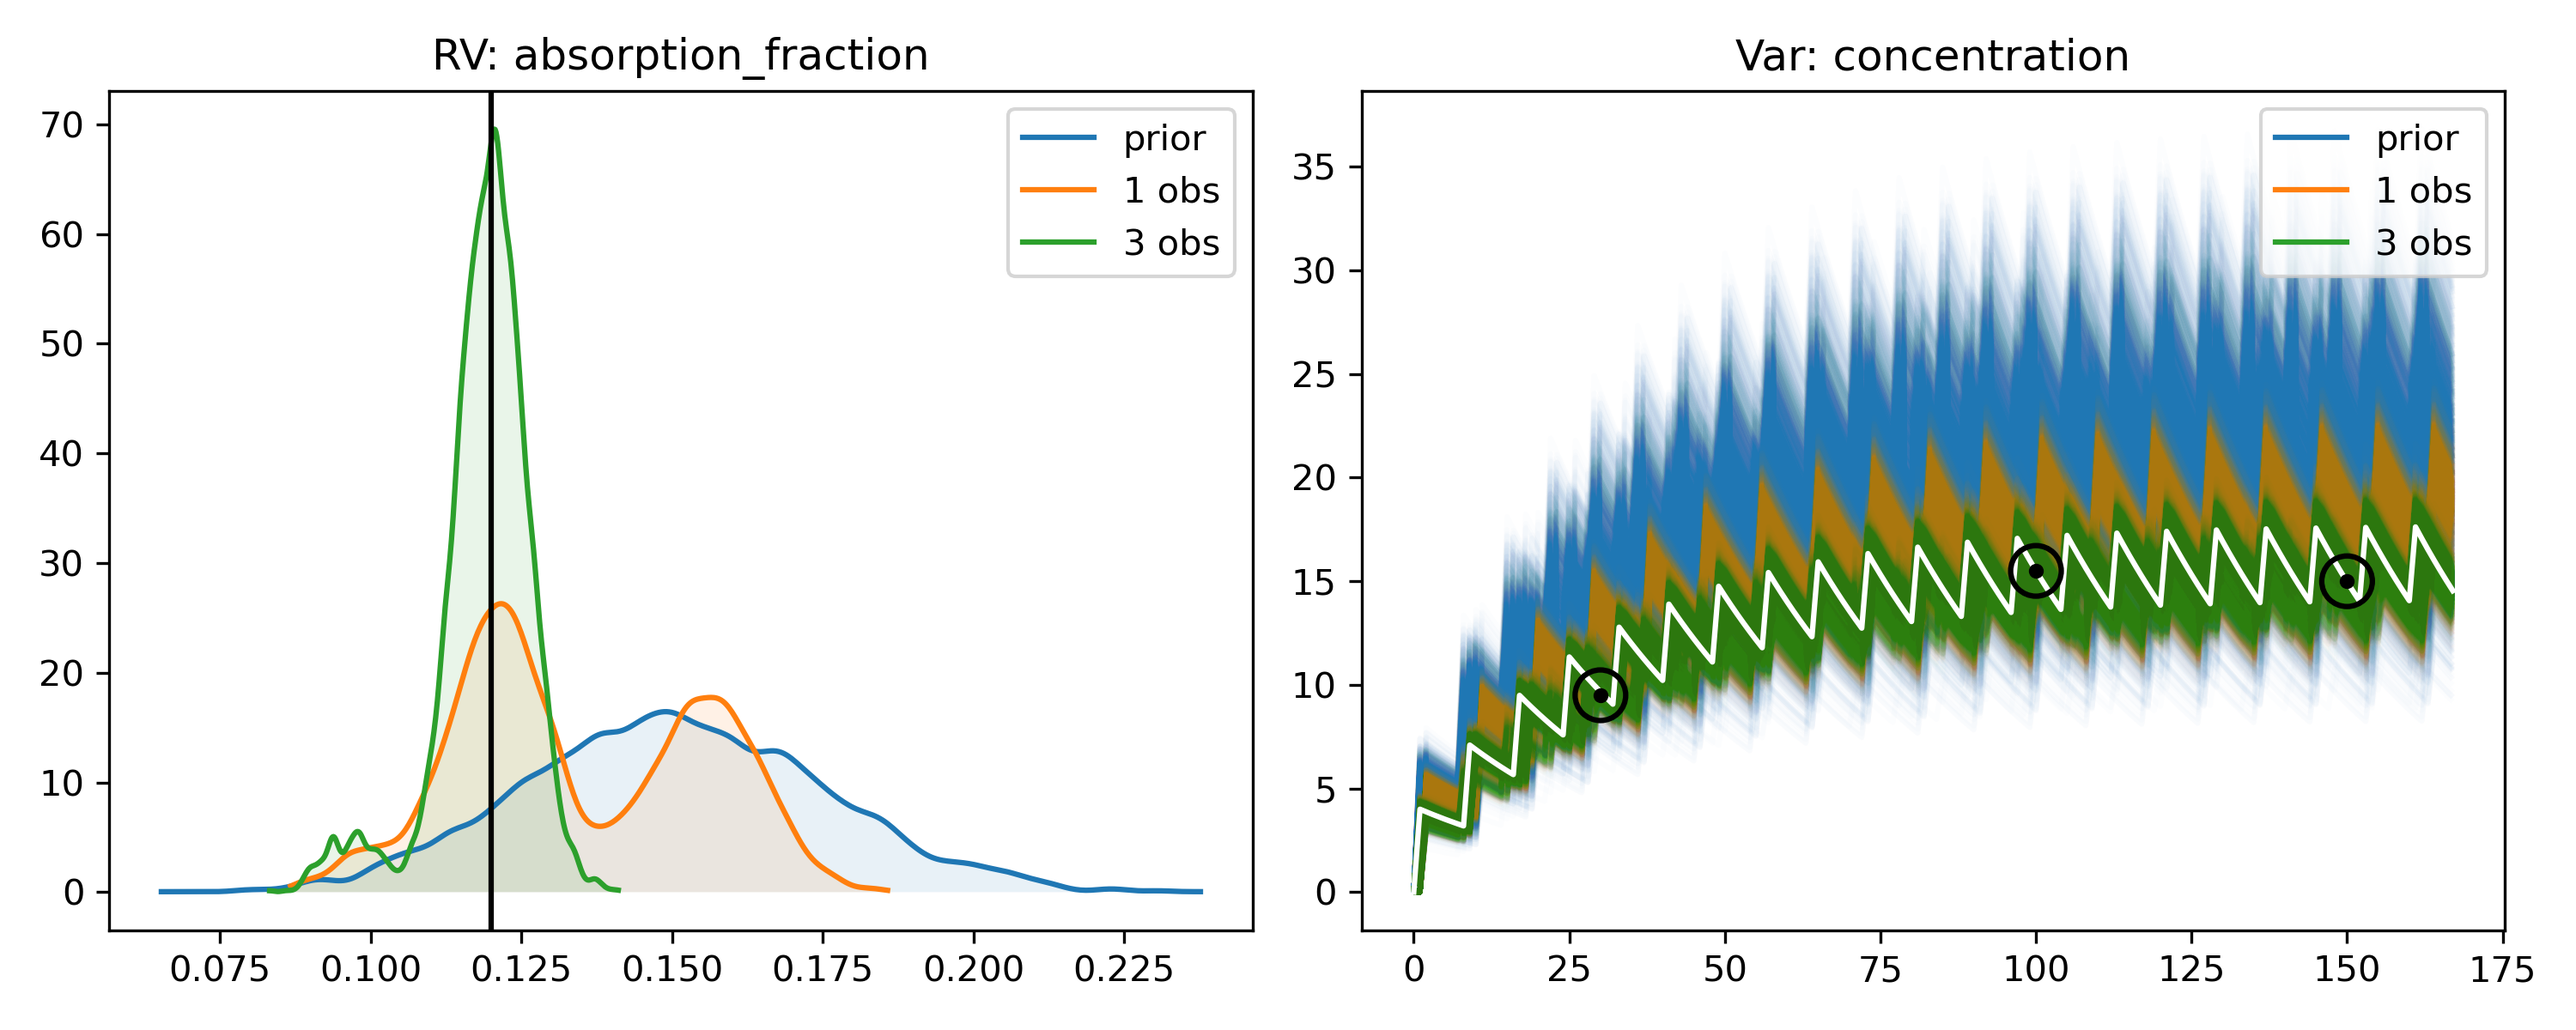
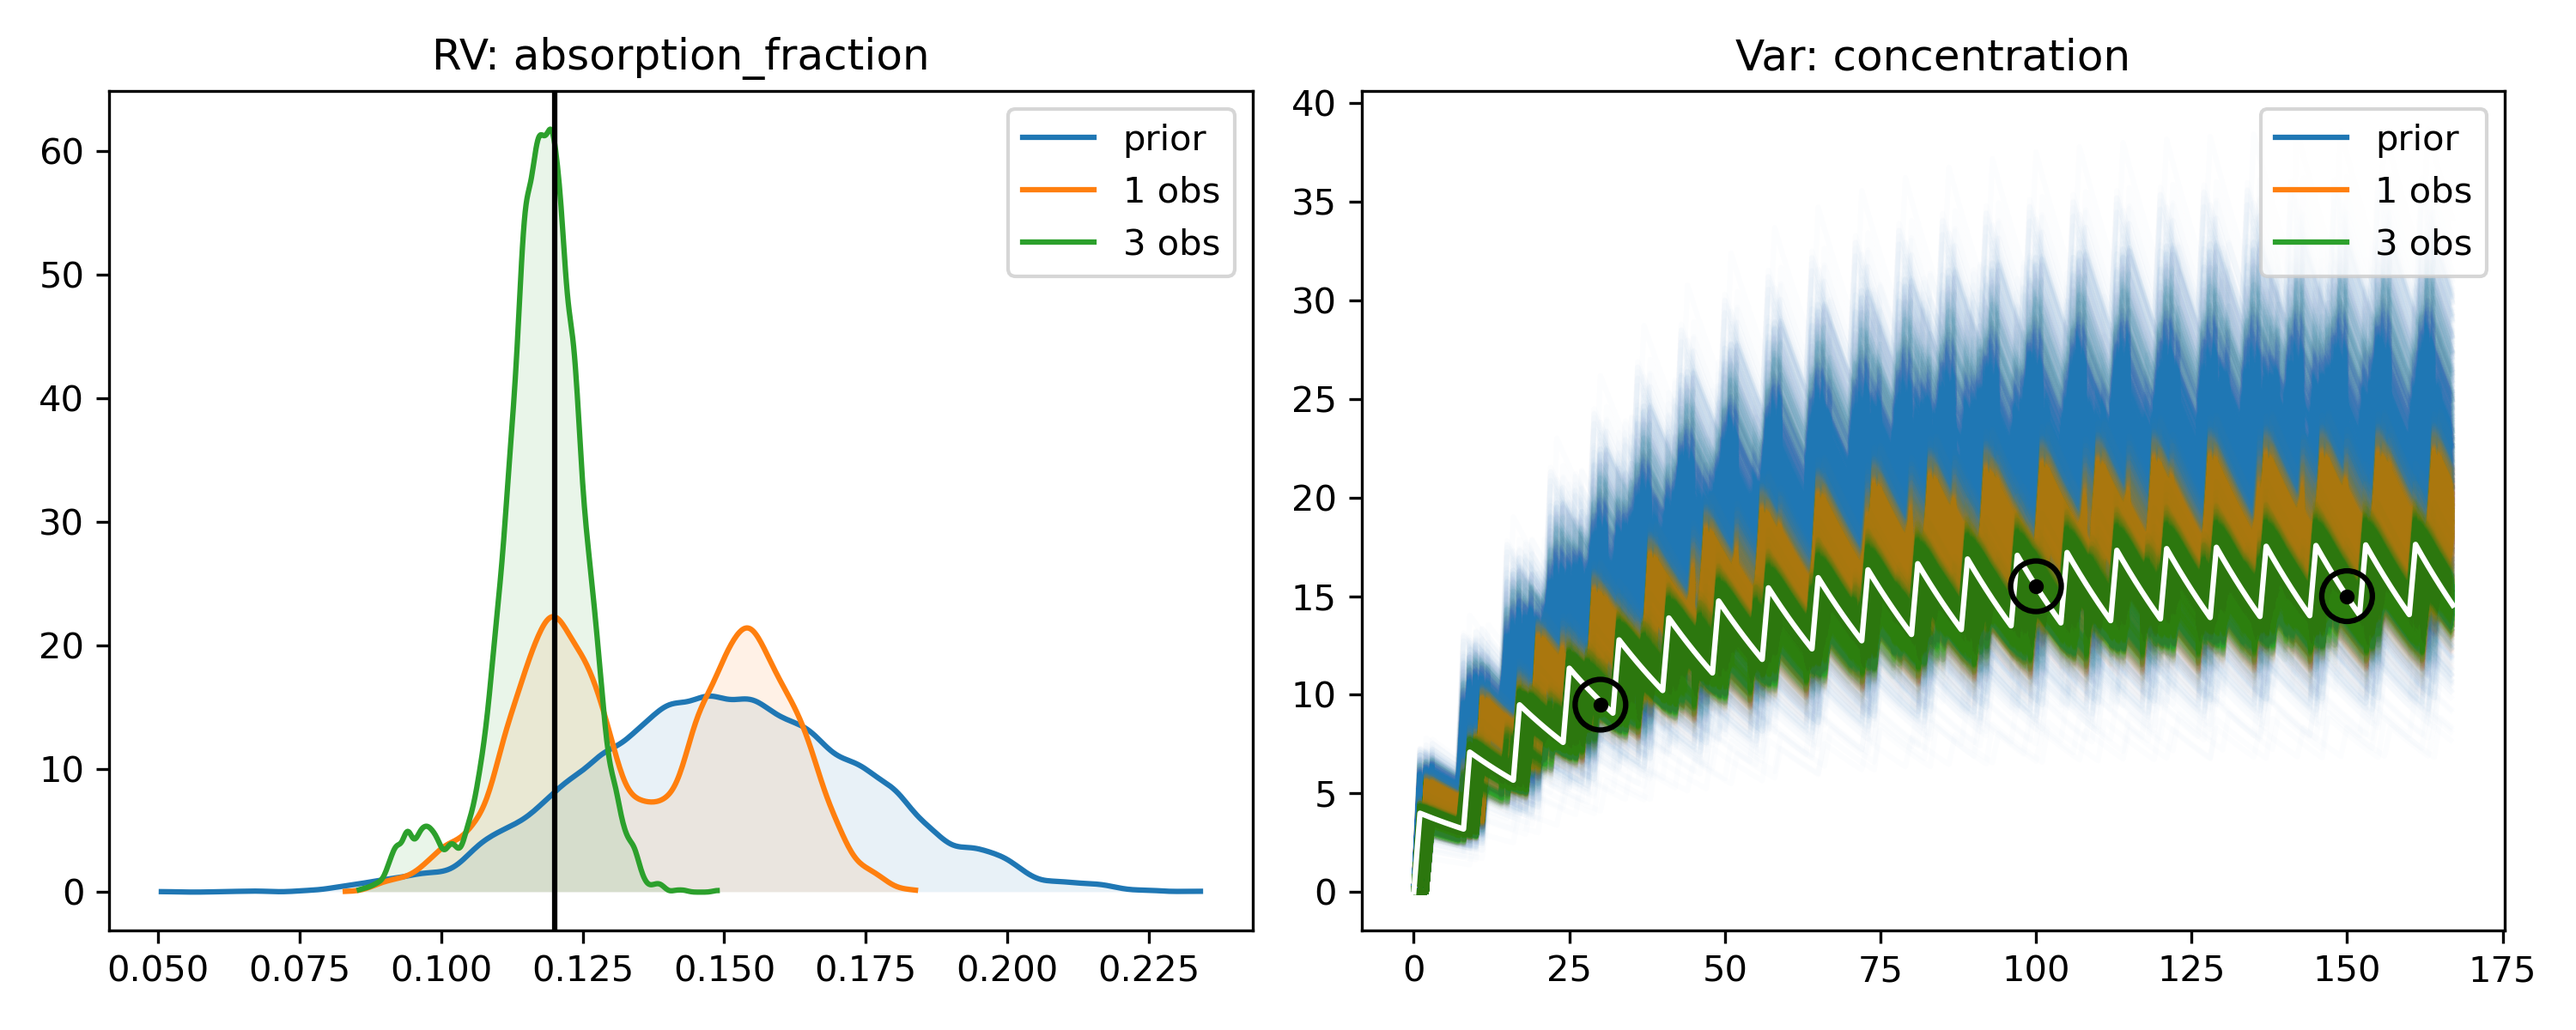
Regenerate figures using specified random seed

diff --git a/papers/nathan_martindale/main.md b/papers/nathan_martindale/main.md
@@ -478,6 +478,7 @@ and the actual observed values for PyMC to target
 MCMC sampling process to approximate the posteriors. Passing an `n` to the
 `.pymc()` call configures the total number of samples produced by the sampler.
 By default, four chains are used, but this and all other PyMC sampler settings
+(such as the random seed)
 can be configured by passing a `sampling_kwargs` dictionary. The sampler used by
 default is the Sequential Monte Carlo[^smc], but the standard samplers can be
 used as well by passing `smc=False`.
@@ -591,7 +592,8 @@ compartment.pymc(
 	start=r.DiscreteUniform(0, 1),
 	interval=r.DiscreteUniform(7, 9),
 	absorption_fraction=r.Normal(.15, .025),
-	compute_prior_only=True
+	compute_prior_only=True,
+    sampling_kwargs=dict(random_seed=13)
 )
 ```
 
@@ -621,6 +623,7 @@ compartment.pymc(
 	observations=[
 		r.Observation(compartment.concentration.timeseries[100], 1, [15.5]),
 	],
+    sampling_kwargs=dict(random_seed=13)
 )
 ```
 
@@ -649,6 +652,7 @@ compartment.pymc(
 		r.Observation(compartment.concentration.timeseries[150], 1, [15.0]),
 		r.Observation(compartment.concentration.timeseries[30], 1, [9.5]),
 	],
+    sampling_kwargs=dict(random_seed=13)
 )
 ```
 
